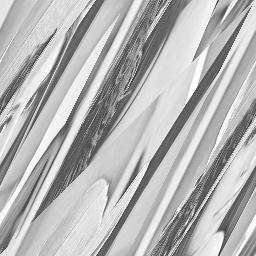
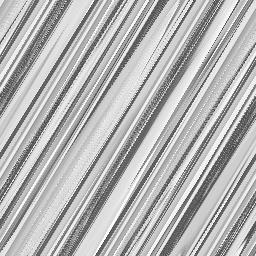
fix aronold algo add measurement

diff --git a/arnoldAlgorithm.m b/arnoldAlgorithm.m
@@ -1,0 +1,43 @@
+
+% % Пример использования функции:
+% input_image = imread('len_std.jpg'); % Загрузка изображения
+% iterations = 0; % Количество итераций алгоритма Арнольда
+% scrambled_image = arnoldAlgorithmStraight(input_image,1,1,1,2, iterations); % Применение алгоритма
+% %imshow(scrambled_image); % Отображение скремблированного изображения
+% 
+% %descrambled_image = arnoldAlgorithmReverse(scrambled_image,1,1,1,2, iterations); % Дешифрование изображения
+% %imshow(descrambled_image); % Отображение дешифрованного изображения
+% 
+% compression_ratio = EntropyMeasure(scrambled_image);
+% disp(['Коэффициент сжатия: ', num2str(compression_ratio)]);
+% 
+
+
+input_image = imread('len_std.jpg'); % Загрузка изображения
+
+max_iterations = 10; % Максимальное количество итераций
+entropies = zeros(1, max_iterations); % Вектор для хранения коэффициентов сжатия
+figure('Name', 'Изображения', 'Position', [100, 100, 800, 400]);
+for iterations = 0:max_iterations-1
+    % Применение алгоритма с текущим количеством итераций
+    scrambled_image = arnoldAlgorithmStraight(input_image,1,1,1,2, iterations);
+
+
+     % Добавление изображения в форму
+    %subplot(2, max_iterations/2, iterations);
+    nexttile;
+    imshow(scrambled_image);
+    title(['Итерация ', num2str(iterations)]);
+
+    % Вычисление коэффициента сжатия
+    compression_ratio = EntropyMeasure(scrambled_image);
+    entropies(iterations+1) = 1/compression_ratio;
+end
+
+% Построение графика
+figure;
+plot(1:max_iterations, entropies, 'bo-');
+xlabel('Количество итераций');
+ylabel('Энтропия');
+title('Зависимость энтропии от количества итераций');
+grid on;

diff --git a/arnoldAlgorithmStraight.m b/arnoldAlgorithmStraight.m
@@ -1,0 +1,45 @@
+% function scrambled_image = arnold_scramble(image, iterations)
+%     % Получаем размеры изображения
+%     [rows, cols, ~] = size(image);
+% 
+%     % Проверяем, что изображение квадратное (rows == cols), иначе выдаем ошибку
+%     if rows ~= cols
+%         error('Изображение должно быть квадратным');
+%     end
+% 
+%     % Создаем матрицу для хранения скремблированного изображения
+%     scrambled_image = uint8(zeros(rows, cols, 3));
+% 
+%     % Выполняем указанное количество итераций алгоритма Арнольда
+%     for k = 1:iterations
+%         for i = 1:rows
+%             for j = 1:cols
+%                 % Применяем алгоритм Арнольда к каждому пикселю
+%                 x = mod(i + j, rows) + 1;
+%                 y = mod(i + 2*j, rows) + 1;
+% 
+%                 % Копируем значение пикселя в новые координаты
+%                 scrambled_image(x, y, :) = image(i, j, :);
+%             end
+%         end
+%         % Обновляем исходное изображение для следующей итерации
+%         image = scrambled_image;
+%     end
+% end
+function scrambled_image = scramble_image(original_image, a, b, c, d, iterations)
+    [height, width, ~] = size(original_image);
+    N = max(height, width);
+    scrambled_image = original_image;
+    
+    for iter = 1:iterations
+        for y = 1:height
+            for x = 1:width
+                x_new = mod(a*(x-1) + b*(y-1), N) + 1;
+                y_new = mod(c*(x-1) + d*(y-1), N) + 1;
+                scrambled_image(y_new, x_new, :) = original_image(y, x, :);
+            end
+        end
+        original_image = scrambled_image; % Обновляем оригинальное изображение для следующей итерации
+    end
+end
+

diff --git a/arnoldAlgorithmReverse.m b/arnoldAlgorithmReverse.m
@@ -1,0 +1,42 @@
+% function descrambled_image = arnold_descramble(scrambled_image, iterations)
+%     % Получаем размеры скремблированного изображения
+%     [rows, cols, ~] = size(scrambled_image);
+% 
+%     % Создаем матрицу для хранения дешифрованного изображения
+%     descrambled_image = uint8(zeros(rows, cols, 3));
+% 
+%     % Выполняем указанное количество итераций обратного алгоритма Арнольда
+%     for k = 1:iterations
+%         for i = 1:rows
+%             for j = 1:cols
+%                 % Применяем обратный алгоритм Арнольда к каждому пикселю
+%                 x = mod(-i + j, rows) + 1;
+%                 y = mod(i - 2*j, rows) + 1;
+% 
+%                 % Копируем значение пикселя в новые координаты
+%                 descrambled_image(x, y, :) = scrambled_image(i, j, :);
+%             end
+%         end
+%         % Обновляем скремблированное изображение для следующей итерации
+%         scrambled_image = descrambled_image;
+%     end
+% end
+
+function descrambled_image = descramble_image(scrambled_image, a, b, c, d, iterations)
+    [height, width, ~] = size(scrambled_image);
+    N = max(height, width);
+    descrambled_image = scrambled_image;
+    
+    for iter = 1:iterations
+        for y = 1:height
+            for x = 1:width
+                x_old = mod(d*(x-1) - b*(y-1), N) + 1;
+                y_old = mod(-c*(x-1) + a*(y-1), N) + 1;
+                descrambled_image(y_old, x_old, :) = scrambled_image(y, x, :);
+            end
+        end
+        scrambled_image = descrambled_image; % Обновляем скремблированное изображение для следующей итерации
+    end
+end
+
+

diff --git a/EntropyMeasure.m b/EntropyMeasure.m
@@ -1,0 +1,13 @@
+function compression_ratio = calculate_entropy(image)
+    % Загрузка изображения
+    img = image;
+
+    % Методы компрессии
+    initial_size = numel(img);
+    imwrite(img, 'compressed_image.jpg', 'quality', 50);
+    compressed_size = dir('compressed_image.jpg').bytes;
+    compression_ratio = initial_size / compressed_size;
+
+    % Удаление временного файла сжатого изображения
+    delete('compressed_image.jpg');
+end
